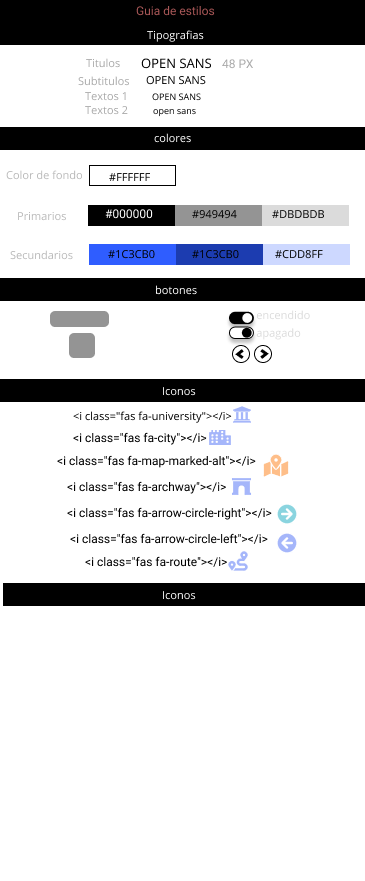
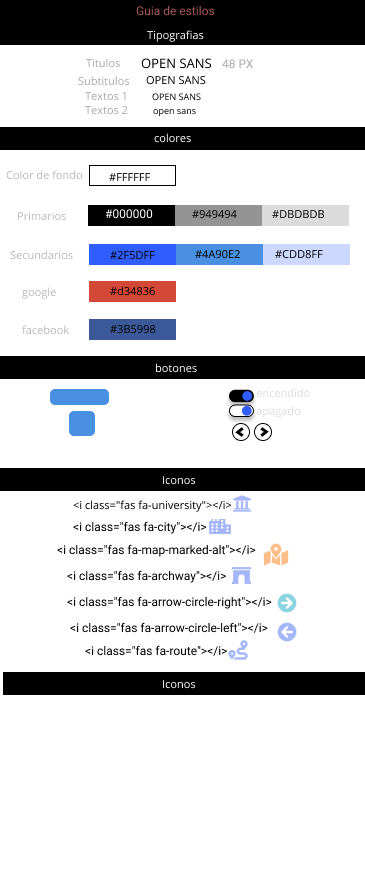
guardando cambios para hacer merge con auth

Changed region(s): [[0.0, 0.2758, 1.0, 0.7968]]

diff --git a/src/styles/loginStyle.css b/src/styles/loginStyle.css
@@ -75,7 +75,7 @@
   left: 4px;
   bottom: 4px;
   border-radius: 50%;
-  background-color: #2F5DFF;
+  background-color: #4A90E2;
   -webkit-transition: .4s;
   transition: .4s;
 }
@@ -97,7 +97,7 @@
   left: 4px;
   bottom: 4px;
   border-radius: 50%;
-  background-color: #2F5DFF;
+  background-color: #4A90E2;
   box-shadow: 0 0 1px #2196F3;
   -webkit-transition: .4s;
   transition: .4s;
@@ -109,15 +109,27 @@
 /* Hide default HTML checkbox */
 input {display:none;}
 
+.authButtonContainer{
+  text-align: center;
+}
+
 .buttonLogin{
   width: 50%;
   /* height: 100%; */
-  background-color: #2F5DFF;
   border-radius: 5px;
   border-width: 0px;
   color: white;
   font-size: small;
   margin-top: 15%;
+  box-shadow: #949494;
+}
+
+.fb{
+  background-color: #3B5998;
+}
+
+.google{
+  background-color: #d34836;
 }
 
 .iconsAuth{

diff --git a/index.html b/index.html
@@ -58,7 +58,7 @@
           </div>
         </div>
           <!--contenedor botones de login-->
-        <div class="container">
+        <div class="container authButtonContainer">
             <div class="row">
               <div class="col m-6">
                 <button class="buttonLogin fb" > 
